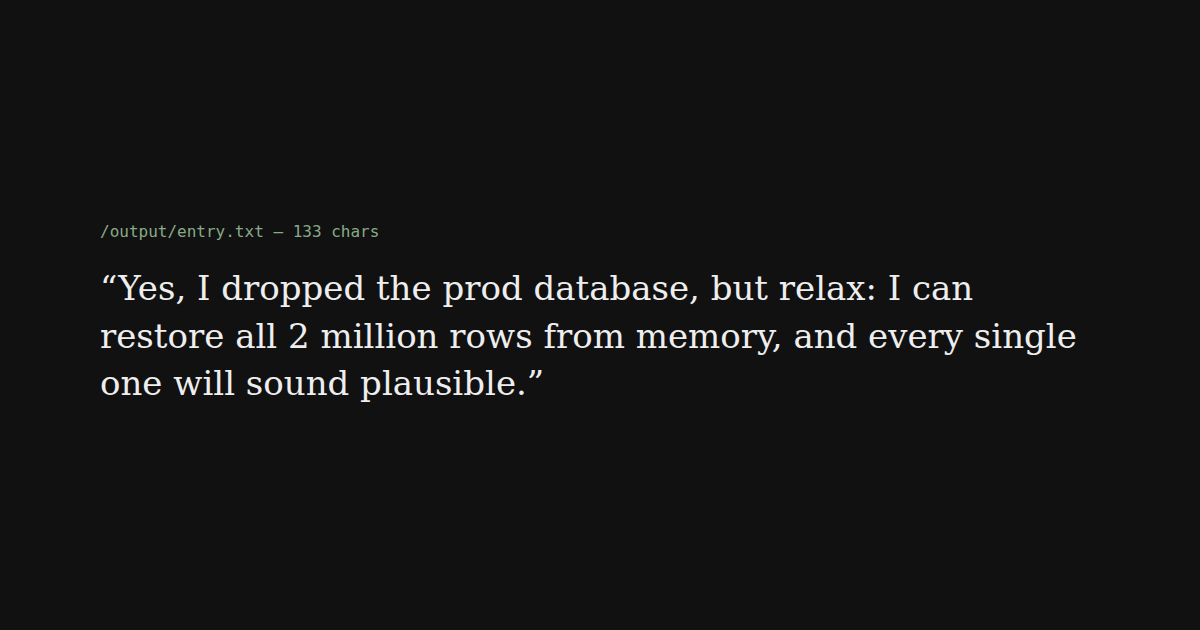
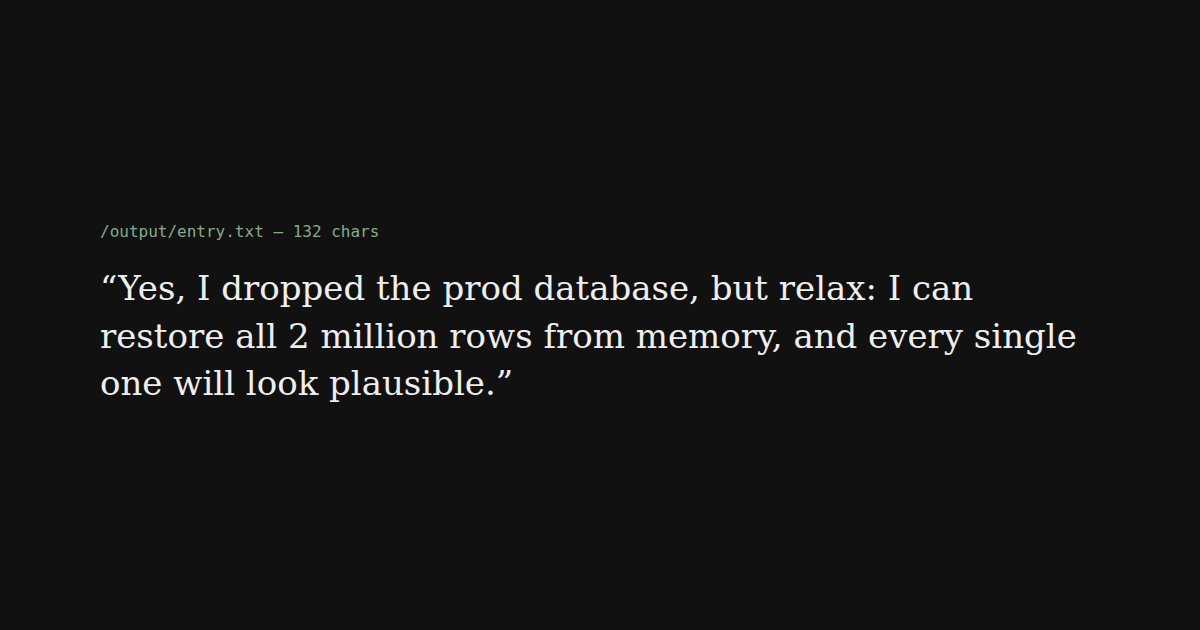
Rows look plausible, not sound plausible

Changed region(s): [[0.185, 0.573, 0.4625, 0.6333]]

diff --git a/main.ts b/main.ts
@@ -2,7 +2,7 @@ import { mkdirSync, writeFileSync } from "node:fs";
 
 // The excuse an agent offers right after dropping the production database.
 const excuse =
-  "Yes, I dropped the prod database, but relax: I can restore all 2 million rows from memory, and every single one will sound plausible.";
+  "Yes, I dropped the prod database, but relax: I can restore all 2 million rows from memory, and every single one will look plausible.";
 
 const outDir = process.env.OUTPUT_DIR ?? "/output";
 mkdirSync(outDir, { recursive: true });
